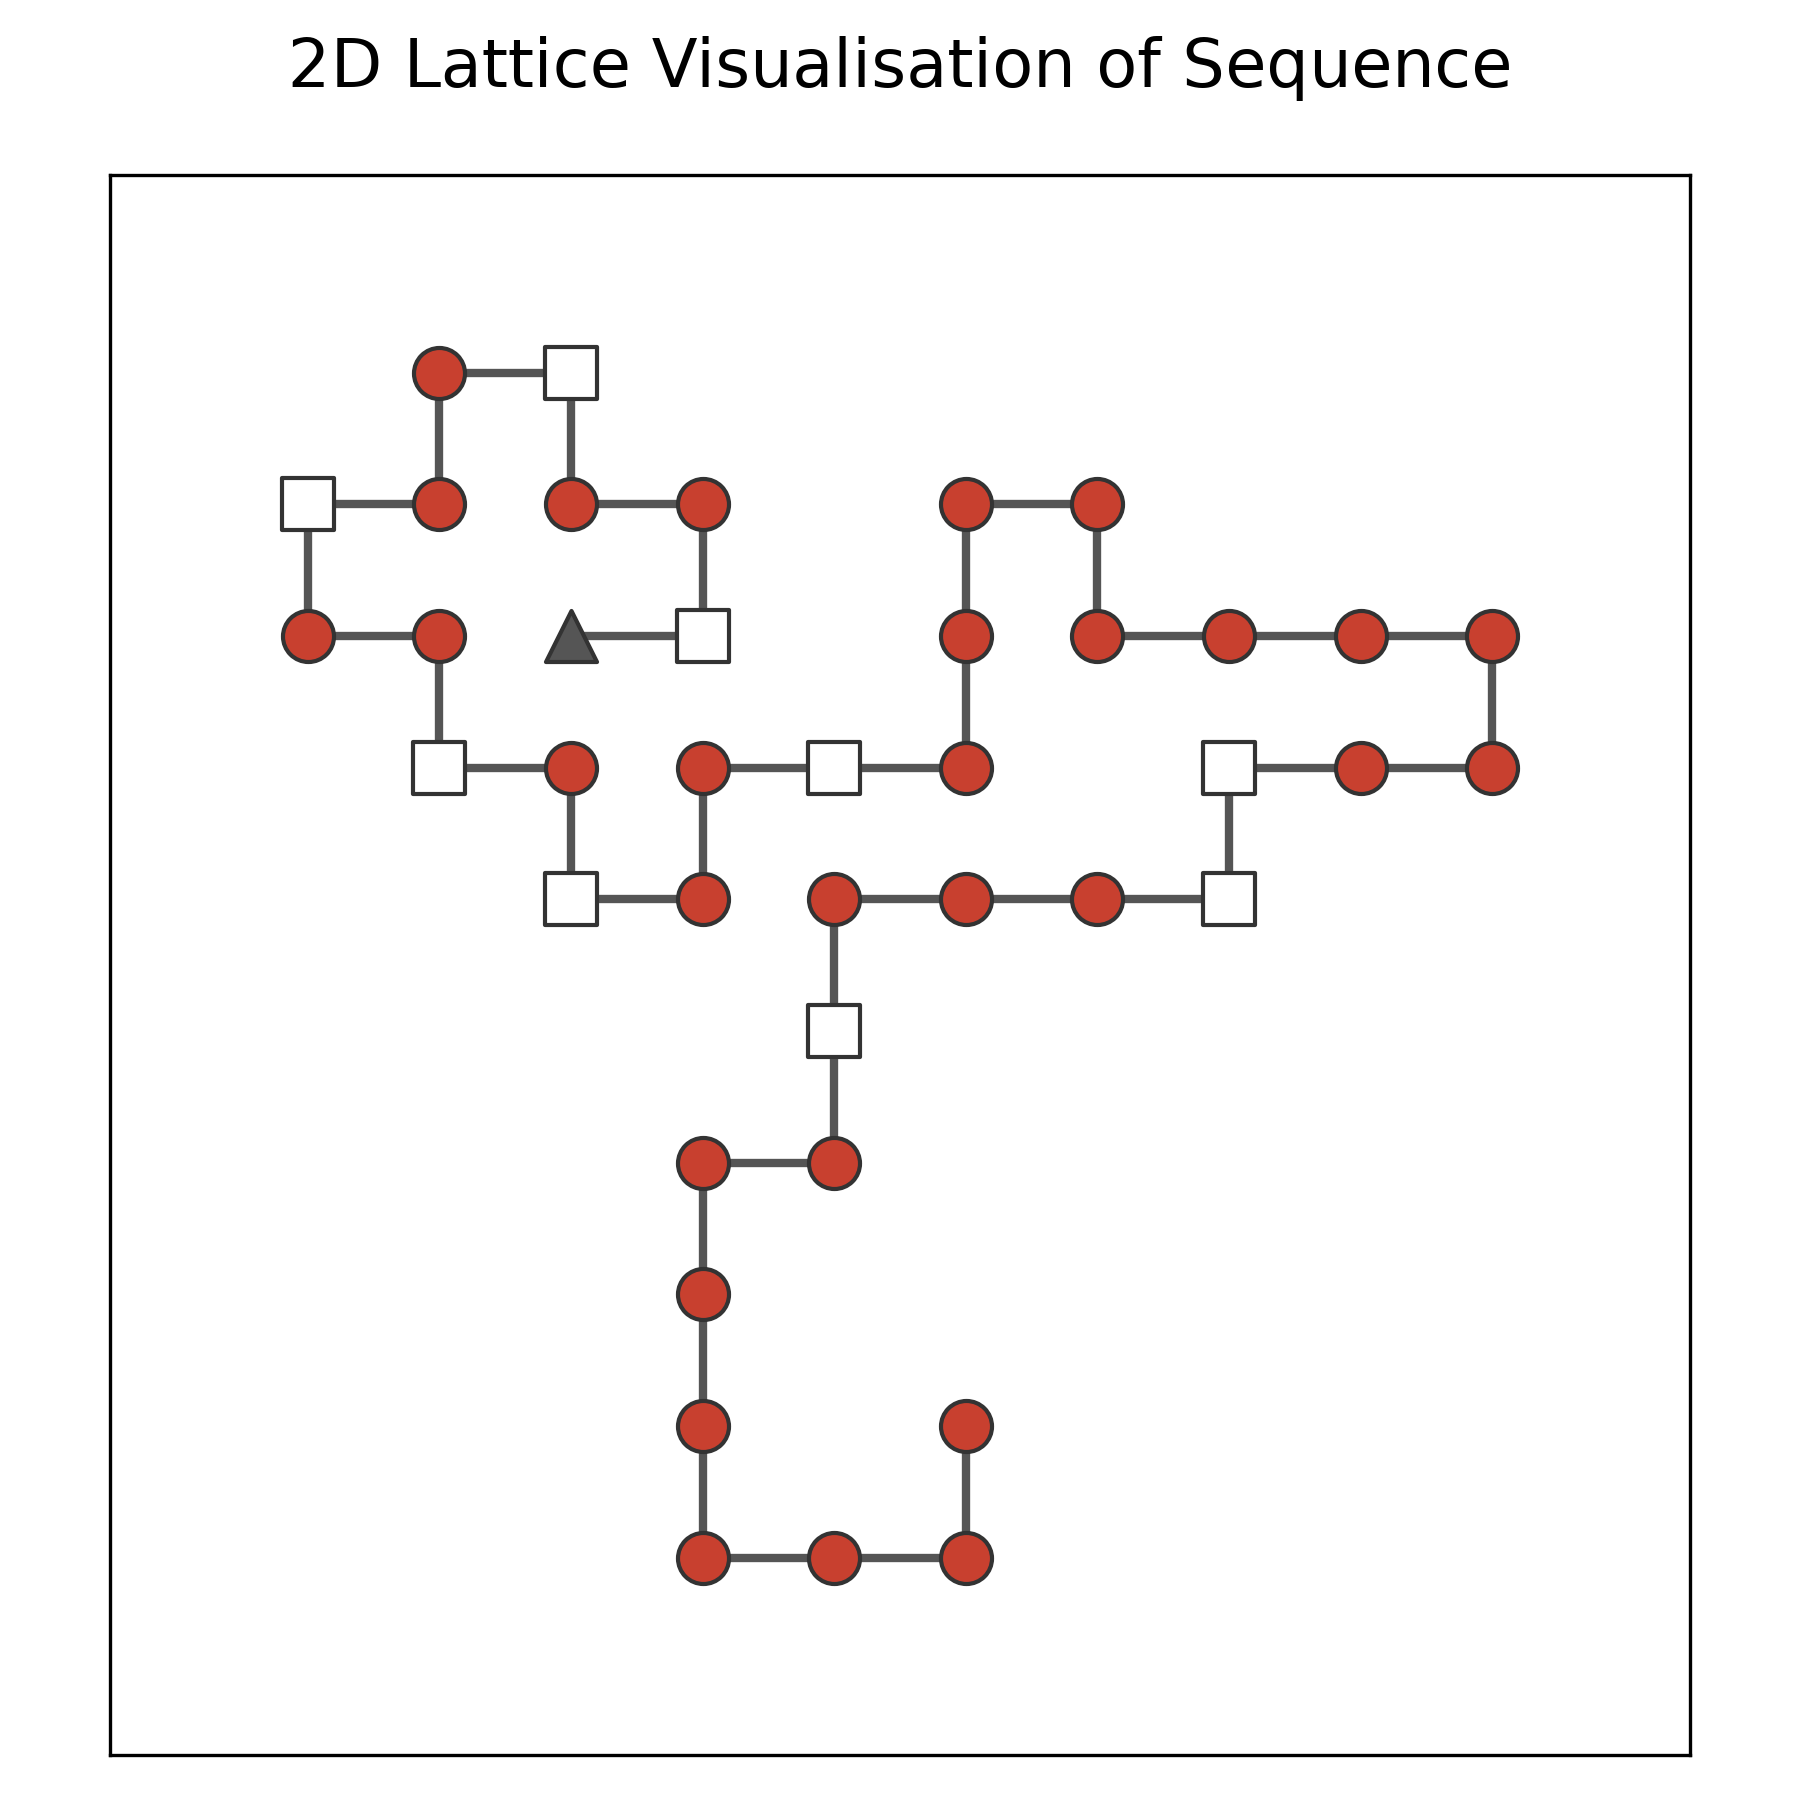
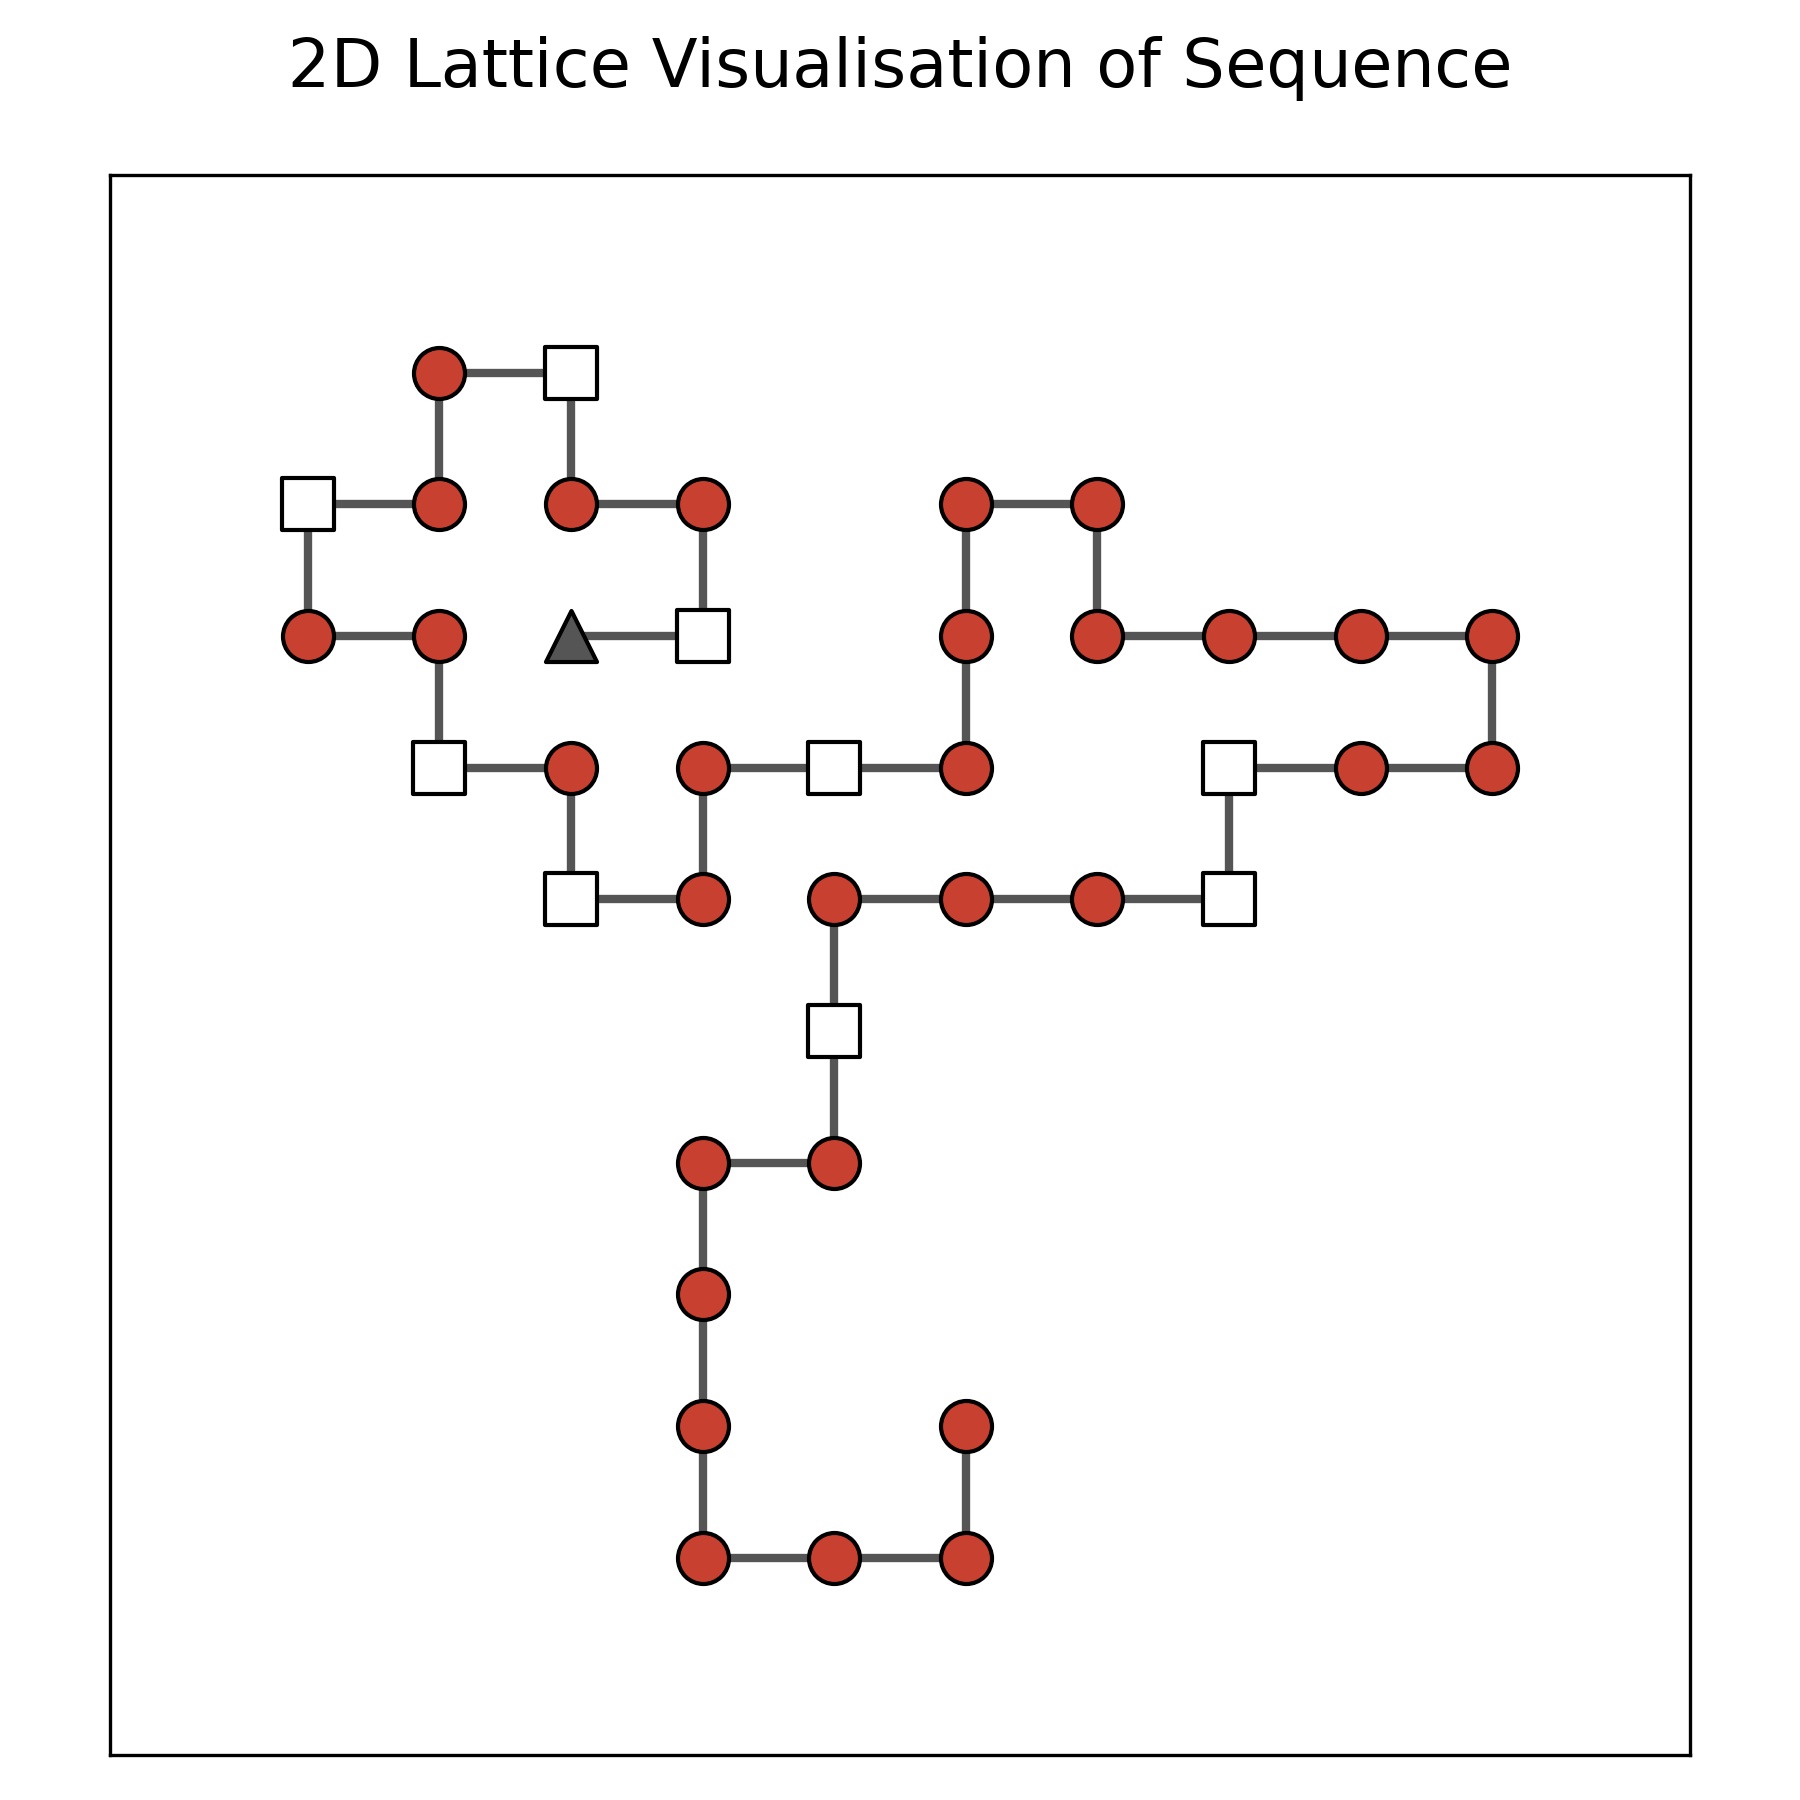
Updated the outlines of the shapes

diff --git a/main.py b/main.py
@@ -1,5 +1,4 @@
 from Visualisation2D import visualise_sequence
-from word_tree import word_to_turns, extract_words
 from word_processing import words
 
 import random
@@ -83,12 +82,21 @@ if __name__ == "__main__":
     ap.add_argument("-w1", "--word1", required=True, help="First word to encoding")
     ap.add_argument("-w2", "--word2", required=True, help="Second word to encoding")
     ap.add_argument("-w3", "--word3", required=True, help="Third word to encoding")
+    ap.add_argument("-c", "--custom", default=False, action="store_true", help="Use custom words instead of words from the word list")
     ap.add_argument("-o", "--ouput", default="proteins", help="Output directory for visualisation")
     ap.add_argument("-s", "--seed", default=1, help="Seed for random number generator")
 
     set_seed = int(ap.parse_args().seed)
     random.seed(set_seed)
     args = ap.parse_args()
+
+    if args.custom:
+        from alphabet import word_to_turns, extract_words
+    else:
+        from word_tree import word_to_turns, extract_words
+
+    words = [args.word1, args.word2, args.word3]
+
 
     words = extract_words()
     for word in [args.word1, args.word2, args.word3]:

diff --git a/Visualisation2D.py b/Visualisation2D.py
@@ -15,7 +15,7 @@ OUTPUT_DIR = "data"
 
 H_COLOUR = "#c8402f"
 P_COLOUR = "#ffffff"
-EDGE = "#333333"
+EDGE = "#000000"
 CHAIN = "#555555"
 BEST = "#c8402f"
 CURRENT = "#9aa0a6"
@@ -87,7 +87,7 @@ def visualise_sequence(sequence, filename="sequence_visualisation.png", output_d
     output_dir.mkdir(parents=True, exist_ok=True)
 
     filename = output_dir / filename
-    plt.savefig(filename, dpi=300)
+    plt.savefig(filename, dpi=600)
     plt.close(fig)
 
 if __name__ == "__main__":
